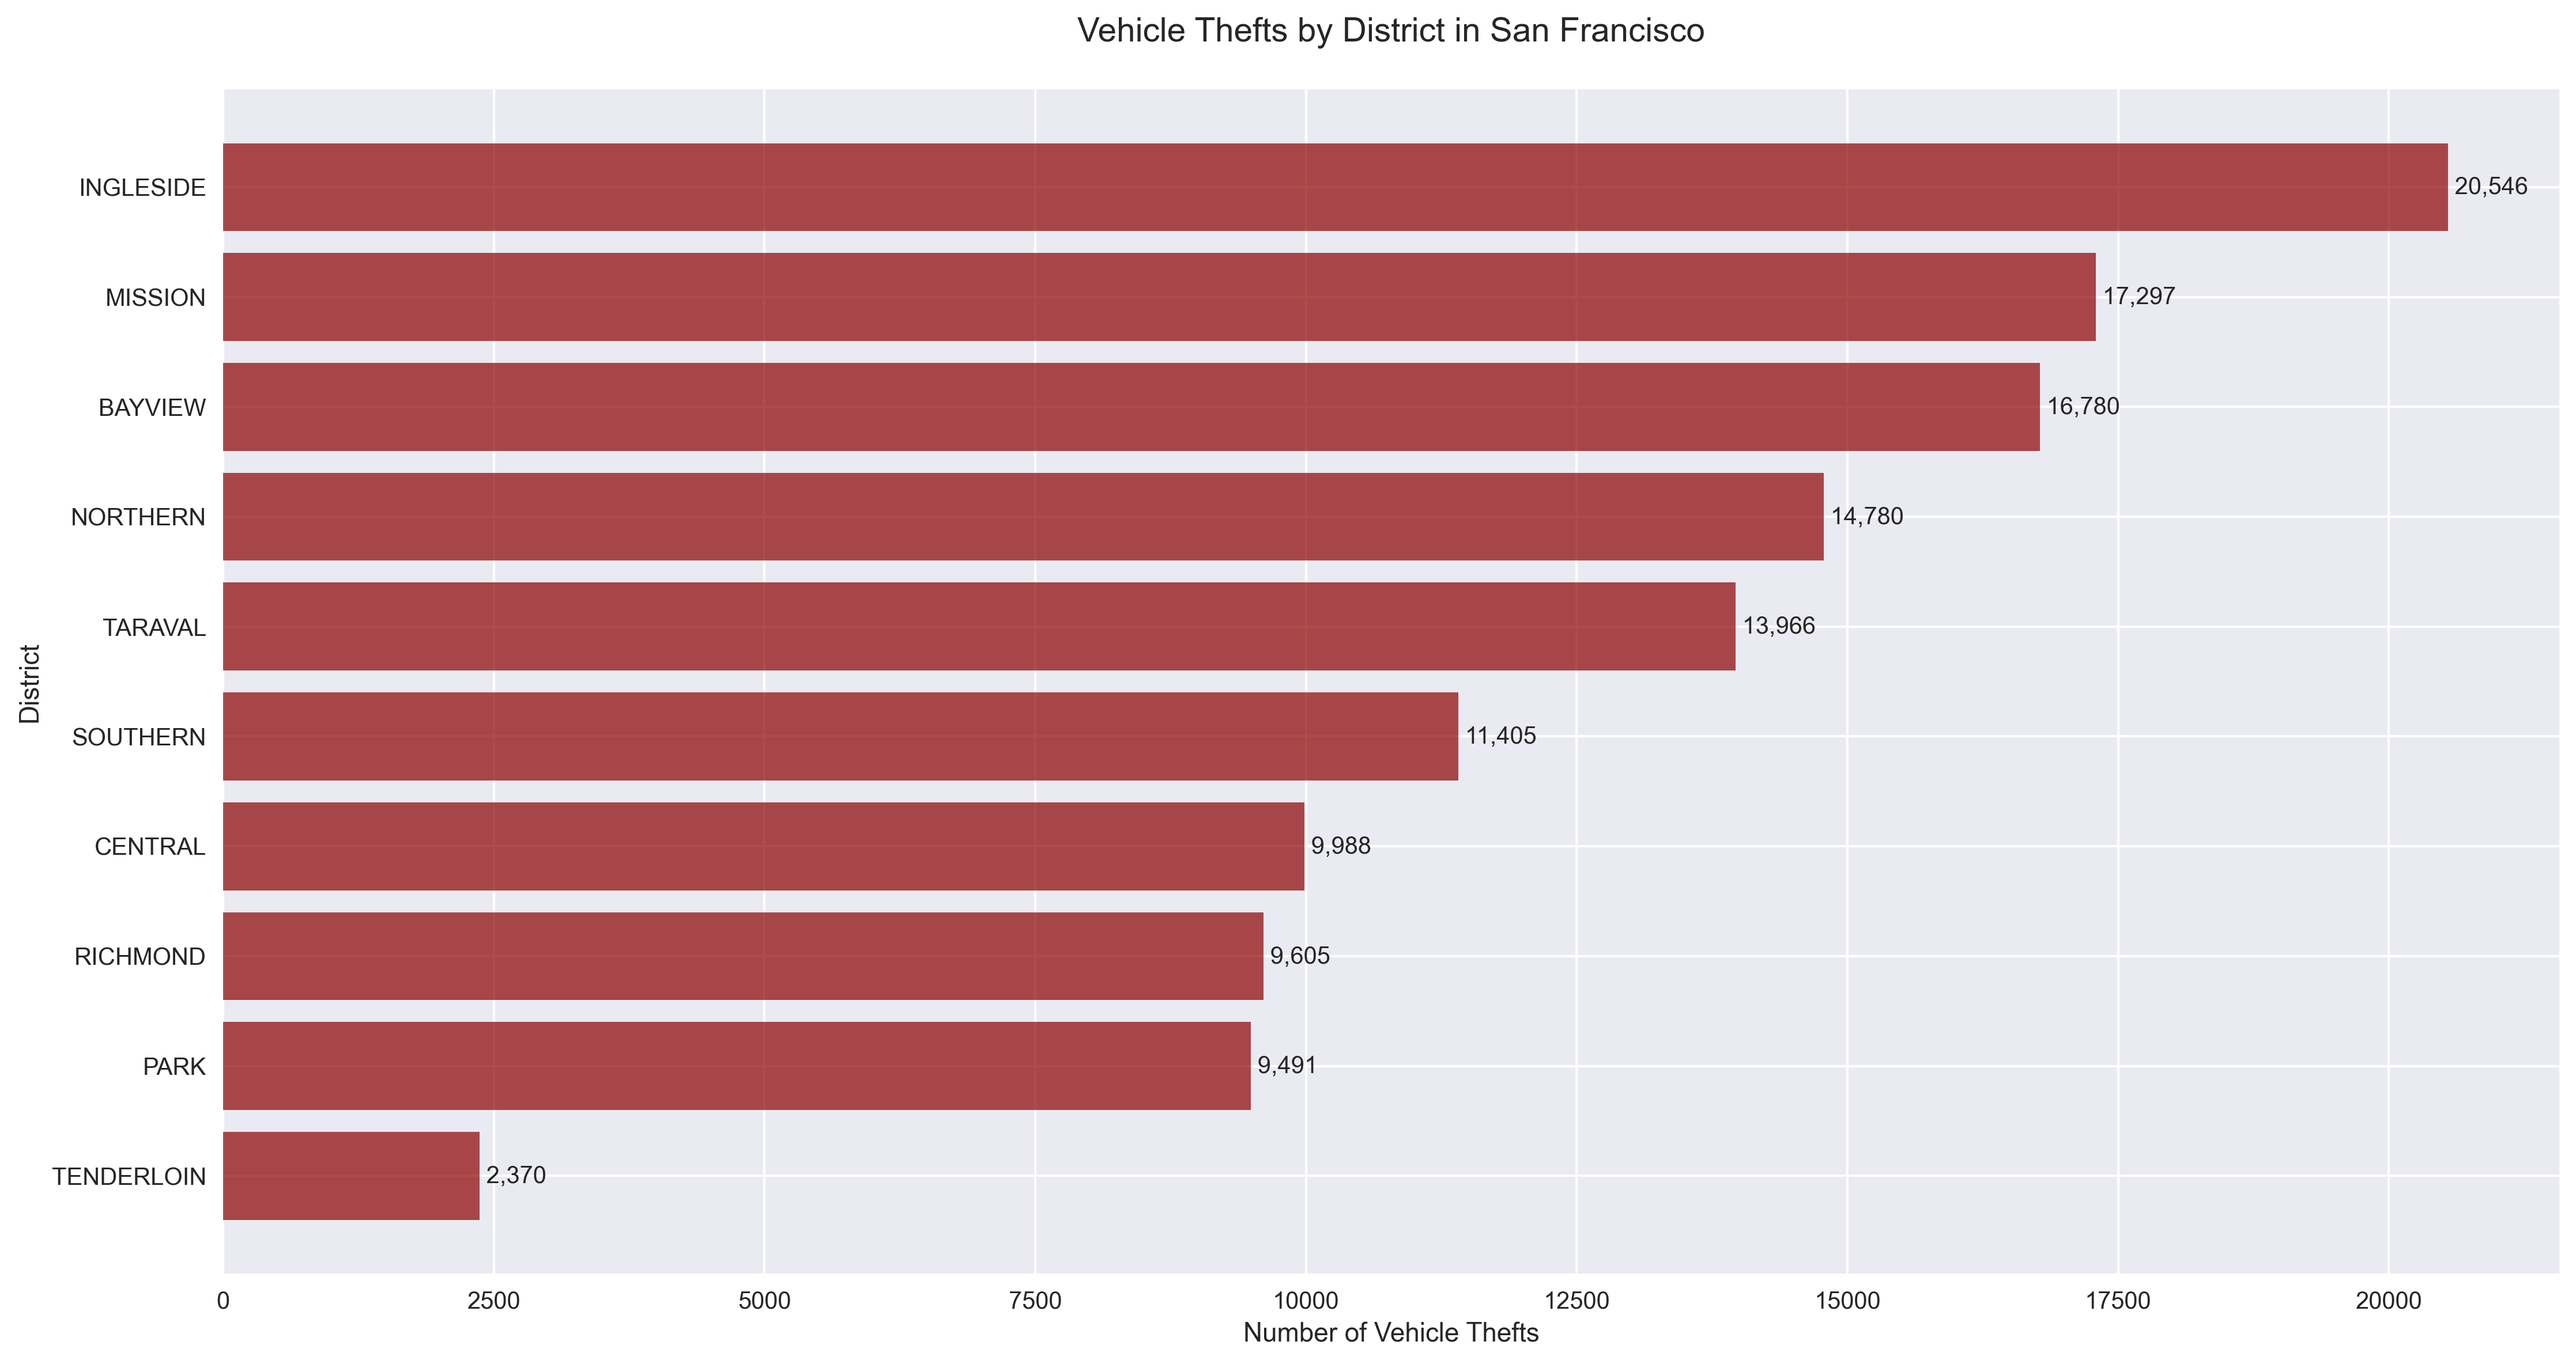
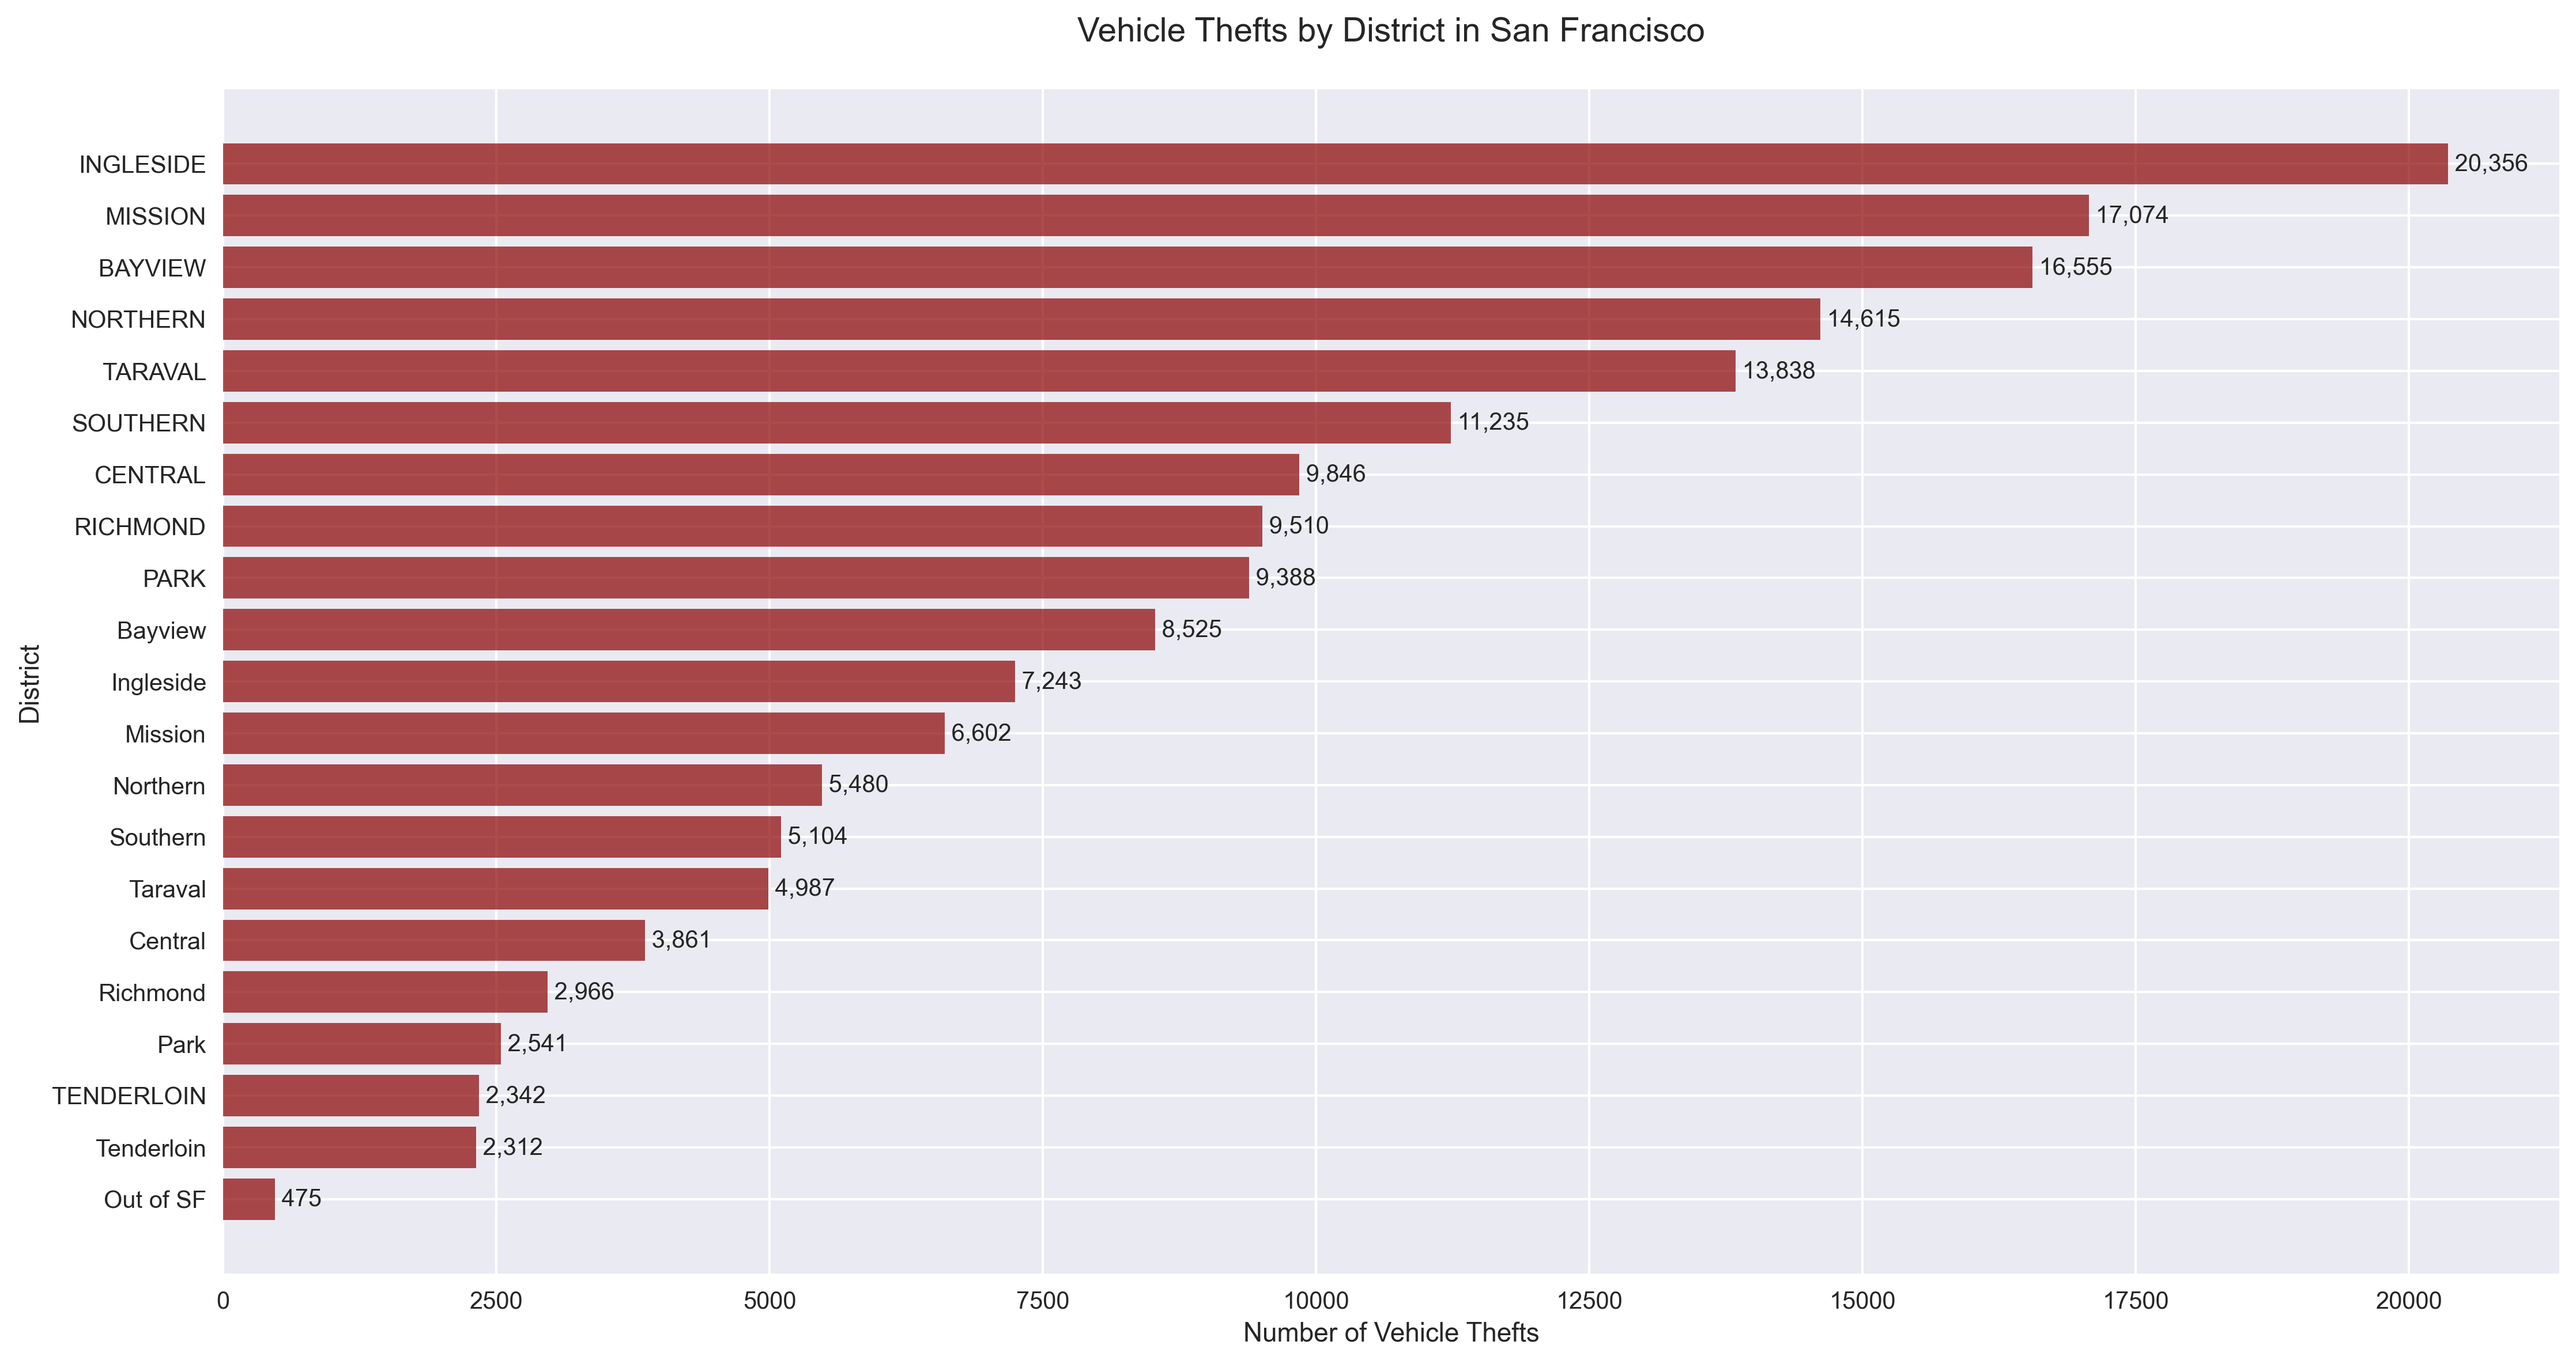
Changed the data from running until 2025 to 2024

diff --git a/docs/SF_vehicle_crime.py b/docs/SF_vehicle_crime.py
@@ -16,47 +16,53 @@ try:
 
     # Check if required files exist
     print("\nLoading data sources...")
-    historical_file = os.path.join(data_dir, 'Police_Department_Incident_Reports__Historical_2003_to_May_2018_20250325.csv')
-    recent_file = os.path.join(data_dir, 'Police_Department_Incident_Reports__2018_to_Present_20250325.csv')
-
-    check_file_exists(historical_file)
-    check_file_exists(recent_file)
+    data_file = os.path.join(script_dir, 'crime_data_final.csv')
+    
+    check_file_exists(data_file)
 
     # Read and process the data
     print("Loading datasets...")
-    historical_df = pd.read_csv(historical_file)
-    recent_df = pd.read_csv(recent_file)
+    df = pd.read_csv(data_file)
+
+    # Process dates
+    print("\nProcessing dates...")
+    df['Date'] = pd.to_datetime(df['Date'])
+    
+    # Extract time components BEFORE filtering
+    df['Year'] = df['Date'].dt.year
+    df['Month'] = df['Date'].dt.month
+
+    # Filter for vehicle thefts
+    print("\nFiltering vehicle thefts...")
+    vehicle_theft_df = df[df['Category'].str.contains('VEHICLE THEFT', case=False, na=False)].copy()
+
+    # Filter out future dates and limit to 2024
+    current_date = pd.Timestamp.now()
+    vehicle_theft_df = vehicle_theft_df[vehicle_theft_df['Date'] <= current_date]
+    vehicle_theft_df = vehicle_theft_df[vehicle_theft_df['Year'] <= 2024]
+
+    print(f"\nCombined data range: {vehicle_theft_df['Date'].min()} to {vehicle_theft_df['Date'].max()}")
+    print(f"Total vehicle theft records: {len(vehicle_theft_df)}")
 
     # Process dates for historical dataset
     print("\nProcessing dates...")
-    if 'Date' in historical_df.columns:
-        historical_df['Date'] = pd.to_datetime(historical_df['Date'])
-    elif 'Report Datetime' in historical_df.columns:
-        historical_df['Date'] = pd.to_datetime(historical_df['Report Datetime'])
+    if 'Date' in vehicle_theft_df.columns:
+        vehicle_theft_df['Date'] = pd.to_datetime(vehicle_theft_df['Date'])
+    elif 'Report Datetime' in vehicle_theft_df.columns:
+        vehicle_theft_df['Date'] = pd.to_datetime(vehicle_theft_df['Report Datetime'])
 
     # Process dates for recent dataset
-    if 'Incident Datetime' in recent_df.columns:
-        recent_df['Date'] = pd.to_datetime(recent_df['Incident Datetime'])
-    elif 'Incident Date' in recent_df.columns:
-        recent_df['Date'] = pd.to_datetime(recent_df['Incident Date'])
-
-    # Harmonize category names and filter vehicle thefts
-    print("\nHarmonizing categories...")
-    historical_vehicle_theft = historical_df[historical_df['Category'] == 'VEHICLE THEFT'].copy()
-
-    # For recent data, handle both possible category column names
-    if 'Incident Category' in recent_df.columns:
-        recent_vehicle_theft = recent_df[recent_df['Incident Category'].str.contains('Vehicle Theft', case=False, na=False)].copy()
-    else:
-        recent_vehicle_theft = recent_df[recent_df['Category'].str.contains('Vehicle Theft', case=False, na=False)].copy()
-
-    # Combine datasets
-    print("\nCombining datasets...")
-    vehicle_theft_df = pd.concat([historical_vehicle_theft, recent_vehicle_theft], ignore_index=True)
+    if 'Incident Datetime' in vehicle_theft_df.columns:
+        vehicle_theft_df['Date'] = pd.to_datetime(vehicle_theft_df['Incident Datetime'])
+    elif 'Incident Date' in vehicle_theft_df.columns:
+        vehicle_theft_df['Date'] = pd.to_datetime(vehicle_theft_df['Incident Date'])
 
     # Filter out future dates
     current_date = pd.Timestamp.now()
     vehicle_theft_df = vehicle_theft_df[vehicle_theft_df['Date'] <= current_date]
+
+    # Filter out data beyond 2024
+    vehicle_theft_df = vehicle_theft_df[vehicle_theft_df['Year'] <= 2024]
 
     # Extract time components
     vehicle_theft_df['Year'] = vehicle_theft_df['Date'].dt.year
@@ -71,6 +77,9 @@ try:
     # 1. Time Series Plot
     plt.figure(figsize=(15, 8))
     yearly_thefts = vehicle_theft_df.groupby('Year').size().reset_index(name='count')
+    
+    # Filter data up to 2024
+    yearly_thefts = yearly_thefts[yearly_thefts['Year'] <= 2024]
 
     plt.fill_between(yearly_thefts['Year'], yearly_thefts['count'], 
                      color='darkred', alpha=0.3)
@@ -88,8 +97,8 @@ try:
     plt.grid(True, alpha=0.3)
 
     start_year = int(vehicle_theft_df['Year'].min())
-    end_year = int(vehicle_theft_df['Year'].max())
-    plt.title(f'Vehicle Theft Trends in San Francisco ({start_year}-{end_year})', pad=20, fontsize=14)
+    end_year = 2024  # Change this to 2024
+    plt.title(f'Vehicle Theft Trends in San Francisco ({start_year}-2024)', pad=20, fontsize=14)
     plt.xlabel('Year')
     plt.ylabel('Number of Vehicle Thefts')
     plt.tight_layout()
